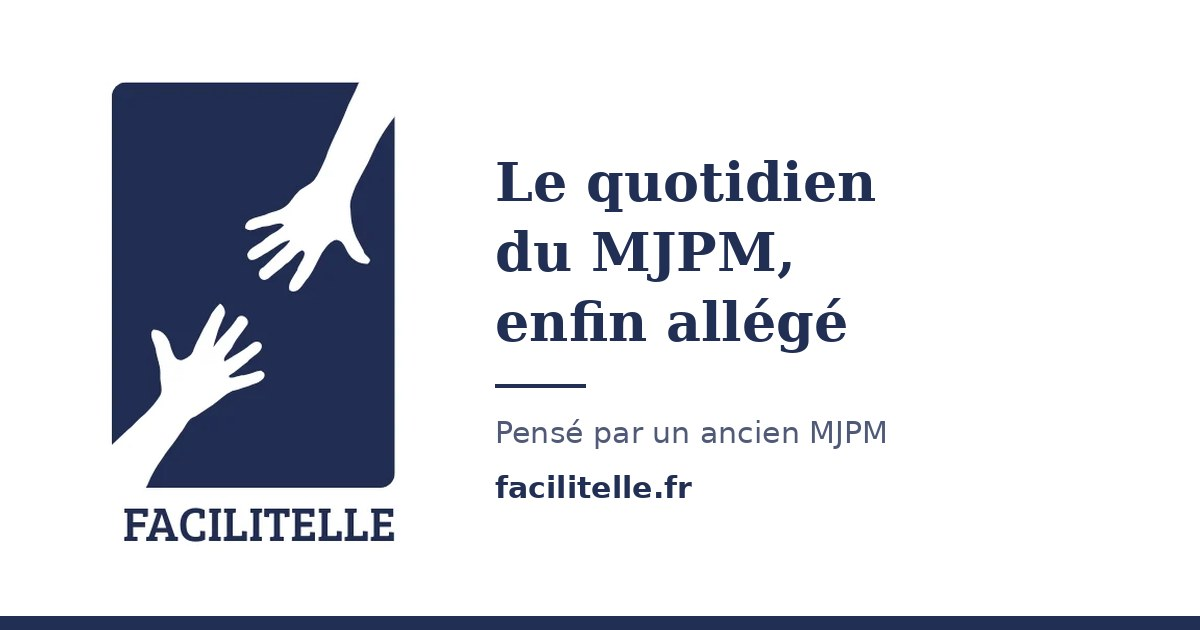
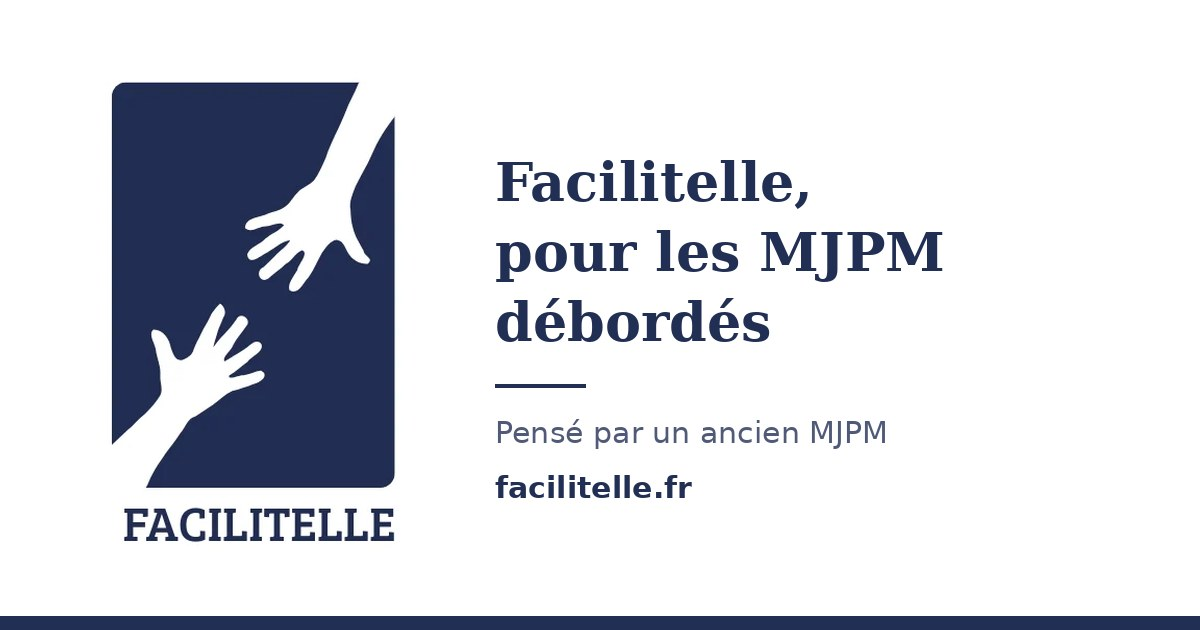
Nouveau texte de l'image d'aperçu : pour les MJPM débordés
Claude-Session: https://claude.ai/code/session_01HG3NjEsz6d7VWqwWsspQAq

Changed region(s): [[0.4008, 0.3619, 0.8017, 0.573], [0.4317, 0.2413, 0.74, 0.3317]]

diff --git a/404.html b/404.html
@@ -13,7 +13,7 @@
 <meta property="og:image" content="https://facilitelle.fr/og-image.jpg">
 <meta property="og:image:width" content="1200">
 <meta property="og:image:height" content="630">
-<meta property="og:image:alt" content="Facilitelle : le quotidien du MJPM, enfin allégé">
+<meta property="og:image:alt" content="Facilitelle, pour les MJPM débordés">
 <meta name="twitter:card" content="summary_large_image">
 <meta name="twitter:image" content="https://facilitelle.fr/og-image.jpg">
 <meta name="author" content="Julien Meddah">

diff --git a/carte-de-paiement.html b/carte-de-paiement.html
@@ -16,7 +16,7 @@
 <meta property="og:image" content="https://facilitelle.fr/og-image.jpg">
 <meta property="og:image:width" content="1200">
 <meta property="og:image:height" content="630">
-<meta property="og:image:alt" content="Facilitelle : le quotidien du MJPM, enfin allégé">
+<meta property="og:image:alt" content="Facilitelle, pour les MJPM débordés">
 <meta name="twitter:card" content="summary_large_image">
 <meta name="twitter:image" content="https://facilitelle.fr/og-image.jpg">
 <meta name="author" content="Julien Meddah">

diff --git a/contact.html b/contact.html
@@ -16,7 +16,7 @@
 <meta property="og:image" content="https://facilitelle.fr/og-image.jpg">
 <meta property="og:image:width" content="1200">
 <meta property="og:image:height" content="630">
-<meta property="og:image:alt" content="Facilitelle : le quotidien du MJPM, enfin allégé">
+<meta property="og:image:alt" content="Facilitelle, pour les MJPM débordés">
 <meta name="twitter:card" content="summary_large_image">
 <meta name="twitter:image" content="https://facilitelle.fr/og-image.jpg">
 <meta name="author" content="Julien Meddah">

diff --git a/index.html b/index.html
@@ -17,7 +17,7 @@
 <meta property="og:image" content="https://facilitelle.fr/og-image.jpg">
 <meta property="og:image:width" content="1200">
 <meta property="og:image:height" content="630">
-<meta property="og:image:alt" content="Facilitelle : le quotidien du MJPM, enfin allégé">
+<meta property="og:image:alt" content="Facilitelle, pour les MJPM débordés">
 <meta name="twitter:card" content="summary_large_image">
 <meta name="twitter:image" content="https://facilitelle.fr/og-image.jpg">
 <meta name="author" content="Julien Meddah">

diff --git a/mentions-legales.html b/mentions-legales.html
@@ -16,7 +16,7 @@
 <meta property="og:image" content="https://facilitelle.fr/og-image.jpg">
 <meta property="og:image:width" content="1200">
 <meta property="og:image:height" content="630">
-<meta property="og:image:alt" content="Facilitelle : le quotidien du MJPM, enfin allégé">
+<meta property="og:image:alt" content="Facilitelle, pour les MJPM débordés">
 <meta name="twitter:card" content="summary_large_image">
 <meta name="twitter:image" content="https://facilitelle.fr/og-image.jpg">
 <meta name="author" content="Julien Meddah">

diff --git a/permanence-telephonique.html b/permanence-telephonique.html
@@ -16,7 +16,7 @@
 <meta property="og:image" content="https://facilitelle.fr/og-image.jpg">
 <meta property="og:image:width" content="1200">
 <meta property="og:image:height" content="630">
-<meta property="og:image:alt" content="Facilitelle : le quotidien du MJPM, enfin allégé">
+<meta property="og:image:alt" content="Facilitelle, pour les MJPM débordés">
 <meta name="twitter:card" content="summary_large_image">
 <meta name="twitter:image" content="https://facilitelle.fr/og-image.jpg">
 <meta name="author" content="Julien Meddah">

diff --git a/petits-travaux.html b/petits-travaux.html
@@ -16,7 +16,7 @@
 <meta property="og:image" content="https://facilitelle.fr/og-image.jpg">
 <meta property="og:image:width" content="1200">
 <meta property="og:image:height" content="630">
-<meta property="og:image:alt" content="Facilitelle : le quotidien du MJPM, enfin allégé">
+<meta property="og:image:alt" content="Facilitelle, pour les MJPM débordés">
 <meta name="twitter:card" content="summary_large_image">
 <meta name="twitter:image" content="https://facilitelle.fr/og-image.jpg">
 <meta name="author" content="Julien Meddah">
